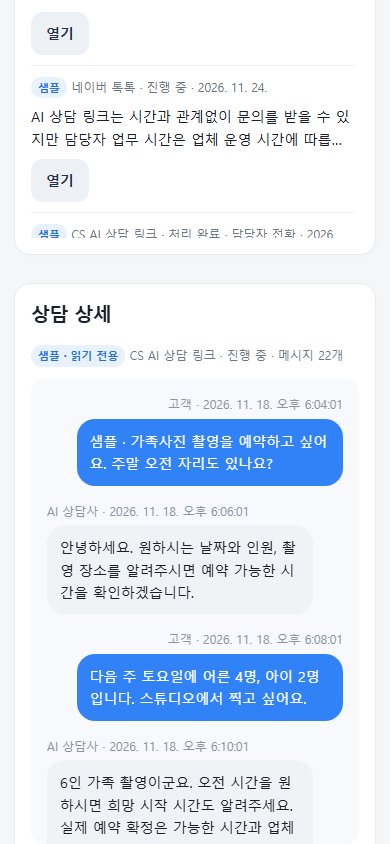
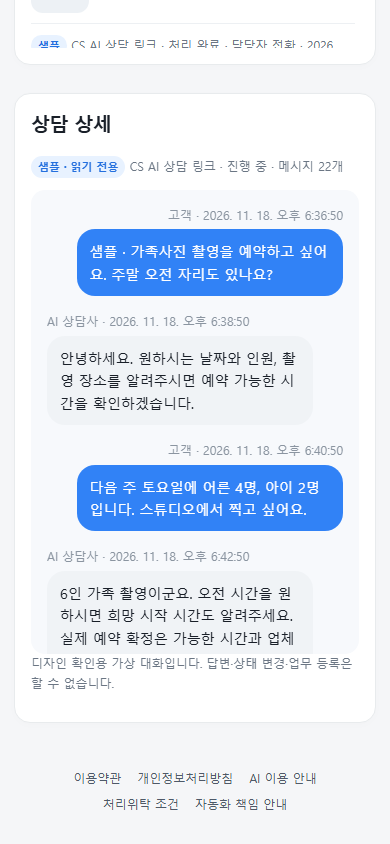
refine inbox toolbar and local chat testing

diff --git a/web/app.js b/web/app.js
@@ -1,7 +1,7 @@
 'use strict';
 const $=s=>document.querySelector(s), e=x=>String(x??'').replace(/[&<>"']/g,c=>({'&':'&amp;','<':'&lt;','>':'&gt;','"':'&quot;',"'":'&#39;'}[c])), money=x=>Number(x).toLocaleString('ko-KR')+'원', enc=encodeURIComponent;
 let cfg,me,route='education',chatSession=null,chatMessages=[],threadId=null,files=[],estimate=null,fields=null,selectedDate=null,calendarMonth=new Date(),selectedPlan='lite',selectedAdd=new Set(),pub=null,renderId=0,publicMode=location.pathname.startsWith('/c/')||location.pathname.startsWith('/widget/'),slug=location.pathname.split('/')[2];
-const btn=(text,fn,cls='')=>`<button class="${cls}" onclick="${fn}">${e(text)}</button>`, card=(title,body)=>`<section class="card"><h2>${e(title)}</h2>${body}</section>`, label=(text,body)=>`<label class="label">${e(text)}</label>${body}`, input=(id,v='',type='text',ph='')=>`<input id="${id}" type="${type}" value="${e(v)}" placeholder="${e(ph)}">`, ta=(id,v='')=>`<textarea id="${id}">${e(v)}</textarea>`, select=(id,opts,v)=>`<select id="${id}">${opts.map(([k,n])=>`<option value="${e(k)}" ${k===v?'selected':''}>${e(n)}</option>`).join('')}</select>`, pageTop=(h,s)=>`<div class="top"><div><h1>${e(h)}</h1><p class="muted">${e(s)}</p></div><span class="tag">${cfg.demo?'로컬 개발 환경':'연동 검증 환경'}</span></div>`, has=k=>me?.entitlements.includes(k), go=p=>location.hash=p, val=id=>$('#'+id).value, checked=id=>$('#'+id).checked;
+const btn=(text,fn,cls='')=>`<button class="${cls}" onclick="${fn}">${e(text)}</button>`, card=(title,body)=>`<section class="card"><h2>${e(title)}</h2>${body}</section>`, label=(text,body)=>`<label class="label">${e(text)}</label>${body}`, input=(id,v='',type='text',ph='')=>`<input id="${id}" type="${type}" value="${e(v)}" placeholder="${e(ph)}">`, ta=(id,v='')=>`<textarea id="${id}">${e(v)}</textarea>`, select=(id,opts,v)=>`<select id="${id}">${opts.map(([k,n])=>`<option value="${e(k)}" ${k===v?'selected':''}>${e(n)}</option>`).join('')}</select>`, pageTop=(h,s)=>`<div class="top"><div><h1>${e(h)}</h1><p class="muted">${e(s)}</p></div></div>`, has=k=>me?.entitlements.includes(k), go=p=>location.hash=p, val=id=>$('#'+id).value, checked=id=>$('#'+id).checked;
 const names={agents:'AI 상담원 관리',inbox:'통합 상담함',preview:'채팅창 미리보기',education:'AI 교육시키기',calendar:'일정표 보기',customers:'고객·업무 관리',channels:'외부 채널 연동',alerts:'알림',settings:'설정',pricing:'요금제 및 결제'}, states={open:'진행 중',pending:'승인 대기',pending_payment:'결제 확인 대기',confirmed:'확정',cancelled:'취소',completed:'완료',resolved:'처리 완료',draft:'작성 중'};
 async function api(path,body,method){let r=await fetch(path,{method:method||(body===undefined?'GET':'POST'),headers:body===undefined?{}:{'Content-Type':'application/json'},body:body===undefined?undefined:JSON.stringify(body)});if(r.status===204)return {};let x=await r.json().catch(()=>({detail:'서버 응답 오류'}));if(!r.ok){let err=new Error(typeof x.detail==='string'?x.detail:JSON.stringify(x.detail));err.status=r.status;throw err}return x}
 function toast(text){document.querySelector('.toast')?.remove();let d=document.createElement('div');d.className='toast';d.textContent=text;document.body.append(d);setTimeout(()=>d.remove(),3500)}
@@ -90,7 +90,8 @@ async function sendChat(){
   else toast(x.message);
  }finally{waiting?.remove();sending=false;if($('#send'))$('#send').disabled=false}
 }
-async function preview(test=false){let appearance=await api('/api/appearance');return pageTop(test?'AI 상담 테스트':'채팅창 미리보기',test?'첫 AI 답변 1회 무료 · 이후 구독 필요':'고객은 로그인 없이 상담합니다.')+`<div class="grid"><div>${phone({...me.settings,...appearance},test,!test)}</div><div>${card('전용 상담 링크',`<p>현재 ${me.enabled?'활성화':'비활성화'} 상태입니다.</p>${input('public-link',location.origin+'/c/'+me.slug)}<div class="row" style="margin:10px 0">${btn('링크 복사',"act(async()=>{await navigator.clipboard.writeText(val('public-link'));toast('복사했습니다')})")}${btn('공개 설정',"act(async()=>{await api('/api/settings',{enabled:!me.enabled},'PATCH');await refresh();render()})",'primary')}</div>${!me.public_access?'<p class="muted">유료 구독 후 공개 채팅 및 QR을 사용할 수 있습니다.</p>':`<img src="/api/qr" width="132" height="132" alt="상담 링크 QR코드"><a href="/api/qr" download="csai-qr.png">QR 저장</a>`}<div style="margin-top:12px">${btn('AI 상담 테스트',"go('test')",'primary')}</div>`)}${card('상담 사용량',`<div class="price">${me.remaining.toLocaleString()}회 남음</div><p class="muted">테스트와 실고객 상담은 동일한 사용량으로 차감됩니다.</p>`)}</div></div>`}
+async function preview(test=false){let appearance=await api('/api/appearance');let localTest=cfg.demo&&!cfg.shared_test&&me.sandbox_allowed&&me.plan==='free';return pageTop(test?'AI 상담 테스트':'채팅창 미리보기',test?'상담 답변은 사용량에서 차감됩니다.':'고객은 로그인 없이 상담합니다.')+`<div class="grid"><div>${phone({...me.settings,...appearance},test,!test)}</div><div>${card('전용 상담 링크',`<p>현재 ${me.enabled?'활성화':'비활성화'} 상태입니다.</p>${input('public-link',location.origin+'/c/'+me.slug)}<div class="row" style="margin:10px 0">${btn('링크 복사',"act(async()=>{await navigator.clipboard.writeText(val('public-link'));toast('복사했습니다')})")}${btn('공개 설정',"act(async()=>{await api('/api/settings',{enabled:!me.enabled},'PATCH');await refresh();render()})",'primary')}</div>${!me.public_access?'<p class="muted">유료 구독 후 공개 채팅 및 QR을 사용할 수 있습니다.</p>':`<img src="/api/qr" width="132" height="132" alt="상담 링크 QR코드"><a href="/api/qr" download="csai-qr.png">QR 저장</a>`}<div style="margin-top:12px">${btn('AI 상담 테스트',"go('test')",'primary')}</div>`)}${card('상담 사용량',`<div class="price">${me.remaining.toLocaleString()}회 남음</div><p class="muted">테스트와 실고객 상담은 동일한 사용량으로 차감됩니다.</p>${localTest?`<p class="muted">여러 대화를 확인하려면 로컬 테스트 구독을 적용하세요. 실제 결제는 없습니다.</p>${btn('로컬 상담 계속 테스트','enableLocalChatTesting()','primary')}`:''}`)}</div></div>`}
+async function enableLocalChatTesting(){await act(async()=>{await api('/api/demo/billing',{plan:'lite',addons:[]});await refresh();toast('로컬 테스트 구독을 적용했습니다.');render()})}
 let educationAgent='';
 async function education(){files=await api('/api/files');let jobs=await api('/api/training'),faq=await api('/api/faq'),agent=has('extra_agent')?await api('/api/agents'):null;if(!agent)educationAgent='';return pageTop('AI 교육시키기','자료와 직접 지침으로 나만의 상담원을 만드세요.')+`<div class="grid">${card('교육 현황',`<div class="price">${me.credits} 크레딧</div><p class="muted">최초 무료 20크레딧 · 모든 AI 교육은 크레딧 차감</p>${btn('교육 크레딧 보기',"go('credits')")}${btn('말투 설정',"go('style')")}`)}${card('교육 자료 등록',`<input type="file" id="upload" multiple accept=".txt,.md,.csv,.pdf,.png,.jpg,.jpeg,.webp,.docx,.xlsx,.hwpx"><p class="muted">파일당 5MB · PDF 30페이지 · HWPX 지원 · 구형 HWP는 PDF로 변환 · 사진 개인정보는 사전 제거</p>${btn('파일 업로드','uploadFiles()','primary')}${label('공개 웹페이지 URL',input('education-url','','url','https://'))}${btn('웹페이지 자료 가져오기','importEducationUrl()')}`)}</div>${card('자료 선택 및 AI 교육',`${files.map(f=>`<div class="row line"><input class="check file-check" type="checkbox" value="${e(f.id)}" checked><span>${e(f.name)} <small>${f.chars}자</small></span>${btn('삭제',`act(async()=>{await api('/api/files/${f.id}',undefined,'DELETE');render()})`)}</div>`).join('')||'<p class="muted">등록된 자료가 없습니다.</p>'}${agent?label('교육 대상',select('training-agent',[['','기본 상담원'],[agent.id,agent.settings.brand]],educationAgent)):''}${label('추가 교육 내용',ta('training-text'))}${btn('교육 비용 확인','estimateTraining()','primary')}<div id="estimate"></div>`)}${card('교육 결과 검토 및 반영',jobs.filter(j=>j.result).map(j=>`<div class="line"><strong>${e(j.agent?'추가 상담원':'기본 상담원')} · ${e(j.state==='published'?'반영 완료':'검토 필요')} · ${j.cost} C</strong><pre class="scrolltext">${e(JSON.stringify(j.result,null,2))}</pre>${j.state==='review'?btn('결과 수정',`reviewModal('${j.id}')`)+btn('승인 및 상담에 반영',`act(async()=>{await api('/api/training/${j.id}/publish',{});await refresh();render()})`,'primary'):''}</div>`).join('')||'<p class="muted">교육을 실행하면 결과가 표시됩니다. 승인 전에는 고객 상담에 반영되지 않습니다.</p>')}${card('직접 모범 답변 교육',`${label('질문',input('faq-q'))}${label('답변',ta('faq-a'))}${btn('저장',"act(async()=>{showEducationQuote(await api('/api/faq',{q:val('faq-q'),a:val('faq-a')}))})",'primary')}${faq.map(f=>`<div class="line"><b>${e(f.q)}</b><p>${e(f.a)}</p>${btn('삭제',`act(async()=>{await api('/api/faq/${f.id}',undefined,'DELETE');render()})`)}</div>`).join('')}`)}${btn('AI 상담 테스트',"go('test')",'primary')}`}
 async function uploadFiles(){await act(async()=>{let fs=[...$('#upload').files];if(!fs.length)throw Error('파일을 선택하세요.');for(let f of fs){if(f.size>5e6)throw Error('파일당 5MB 이하');let data=await new Promise((resolve,reject)=>{let r=new FileReader();r.onload=()=>resolve(r.result.split(',')[1]);r.onerror=reject;r.readAsDataURL(f)});await api('/api/files',{name:f.name,data})}toast('자료 등록 완료');render()})}
@@ -108,11 +109,12 @@ function applyInboxFilters(){inboxKind=val('inbox-kind');inboxQuery=val('inbox-q
 async function inbox(){
  let policy=await api('/api/history-policy'),ts=await api('/api/inbox?kind='+enc(inboxKind==='all'?'':inboxKind)+'&q='+enc(inboxQuery));
  let detail=threadId?await api('/api/inbox/'+threadId):null;
- let filter=`<div class="inbox-filter">${label('채널',select('inbox-kind',[['all','전체 채널'],['public','CS AI 상담 링크'],['naver','네이버 톡톡'],['kakao','카카오톡 채널'],['test','관리자 테스트']],inboxKind))}${label('상담 내용 검색',input('inbox-q',inboxQuery,'search','문의나 답변 검색'))}${btn('찾기','applyInboxFilters()','primary')}</div>`;
+ let filter=`<form class="inbox-filter" onsubmit="event.preventDefault();applyInboxFilters()"><select id="inbox-kind" aria-label="채널 선택">${[['all','전체 채널'],['public','CS AI 상담 링크'],['naver','네이버 톡톡'],['kakao','카카오톡 채널'],['test','관리자 테스트']].map(([k,n])=>`<option value="${k}" ${k===inboxKind?'selected':''}>${n}</option>`).join('')}</select><input id="inbox-q" type="search" aria-label="상담 내용 검색" value="${e(inboxQuery)}" placeholder="문의나 답변 검색"><button class="primary" type="submit">찾기</button></form>`;
  let list=ts.map(t=>`<div class="line inbox-entry ${threadId===t.id?'selected':''}"><small>${t.sample?'<span class="sample-tag">샘플</span> ':''}${e(channelNames[t.kind]||t.kind)} · ${e(states[t.status]||t.status)}${t.manual?' · 담당자 전환':''} · ${e(new Date(t.created*1000).toLocaleDateString('ko-KR'))}</small><p>${e(t.last||'새 상담')}</p>${btn('열기',`threadId='${t.id}';render()`)}</div>`).join('')||'<p class="muted">조건에 맞는 상담이 없습니다.</p>';
  let detailBody=detail?`<p class="muted">${detail.sample?'<span class="sample-tag">샘플 · 읽기 전용</span> ':''}${e(channelNames[detail.kind]||detail.kind)} · ${e(states[detail.status]||detail.status)} · 메시지 ${detail.messages.length}개</p><div class="inbox-conversation">${detail.messages.map(m=>`<div class="inbox-message ${m.role==='user'?'from-customer':''}"><small>${e(m.role==='user'?'고객':m.role==='staff'?'담당자':'AI 상담사')} · ${e(new Date(m.created*1000).toLocaleString('ko-KR'))}</small>${bubble(m.role,m.body)}</div>`).join('')}</div>${detail.sample?'<p class="muted">디자인 확인용 가상 대화입니다. 답변·상태 변경·업무 등록은 할 수 없습니다.</p>':`<div class="row" style="margin-top:15px">${btn(detail.manual?'AI 상담 재개':'담당자 전환',`updateThread({manual:${!detail.manual}})`)}${btn('완료 처리',"updateThread({status:'resolved'})")}</div>${['public','test'].includes(detail.kind)?label('직접 답변',ta('staff-reply'))+btn('답변 전송',"updateThread({reply:val('staff-reply'),manual:true})",'primary'):'<p class="muted">외부 채널의 담당자 답변 전송은 아직 검증되지 않았습니다. 고객에게 답변하려면 해당 채널 관리자 화면을 이용하세요.</p>'}${['crm','quote','tasks','leads','complaints'].some(has)?btn('업무로 등록','convertModal()'):''}`}`:'<p class="muted">왼쪽 목록에서 상담을 선택하세요.</p>';
  let sampleTools=me.sample_tools?`<div class="inbox-sample-tools"><span>화면 검토용 가상 상담 ${ts.filter(t=>t.sample).length}건 · 실제 사용량 차감 없음</span><div>${btn('샘플 상담 8건 넣기','addDemoSamples()')}${btn('샘플만 지우기','removeDemoSamples()')}</div></div>`:'';
- return pageTop('통합 상담함','CS AI 상담 링크와 연결된 채널의 상담을 한곳에서 확인합니다.')+card('상담 기록 조회',`<p>최근 ${policy.accessible_days.toLocaleString()}일 조회 가능 · 조회 범위 밖 상담 ${policy.older_threads.toLocaleString()}건</p><p class="muted">연동 이후 CS AI가 처리한 대화만 표시합니다. 외부 채널의 기존 상담 이력은 가져오지 않습니다.</p>`+(!has('retention')?locked('retention','장기 상담 기록 조회 범위를 확장합니다.'):'')+filter+sampleTools)+`<div class="grid inbox-grid">${card('상담 기록',`<div class="inbox-list">${list}</div>`)}${card('상담 상세',detailBody)}</div>`
+ let scope=`<p class="inbox-scope">최근 ${policy.accessible_days.toLocaleString()}일 상담${policy.older_threads?` · 조회 범위 밖 ${policy.older_threads.toLocaleString()}건`:''}${!has('retention')&&!cfg.demo?` <button type="button" onclick="go('pricing')">장기 보관 보기</button>`:''}</p>`;
+ return pageTop('통합 상담함','CS AI에서 처리한 상담을 채널별로 확인하세요.')+`<section class="card inbox-toolbar">${filter}${scope}${sampleTools}</section>`+`<div class="grid inbox-grid">${card('상담 기록',`<div class="inbox-list">${list}</div>`)}${card('상담 상세',detailBody)}</div>`
 }
 async function addDemoSamples(){await act(async()=>{let r=await api('/api/demo/samples',{});let ts=await api('/api/inbox');threadId=ts.find(t=>t.sample)?.id||null;inboxKind='all';inboxQuery='';toast(r.created?'샘플 상담 8건을 넣었습니다.':'샘플 상담이 이미 있습니다.');render()})}
 async function removeDemoSamples(){if(!confirm('이 데모 계정의 샘플 상담만 지울까요?'))return;await act(async()=>{let r=await api('/api/demo/samples',undefined,'DELETE');threadId=null;toast('샘플 상담 '+r.removed+'건을 지웠습니다.');render()})}
@@ -203,7 +205,7 @@ async function syncCalendar(id){await act(async()=>{let r=await api('/api/integr
 async function liveChannelModal(k){await act(async()=>{let r=await api('/api/integrations/channels/'+k);modal(k==='naver'?'네이버 톡톡 연결':'카카오 채널 연결',label(k==='naver'?'파트너 ID':'봇 ID',input('channel-partner',r.partner))+ (k==='naver'?label('보내기 API Authorization',input('channel-secret','','password')):'')+`<p class="muted">${r.configured?'HTTPS 연동 허용 환경':'실제 웹훅 비활성화 · 키 설정 및 HTTPS 필요'}</p><label><input type="checkbox" class="check" id="channel-active" ${r.active?'checked':''}> 실제 수신 활성화</label>`+btn('설정 저장',`saveLiveChannel('${k}')`,'primary')+(r.saved?label('Webhook / 스킬 URL (비공개)',input('channel-webhook',r.webhook))+btn('연결 해제',`act(async()=>{await api('/api/integrations/channels/${k}/disconnect',{});$('.modal').remove();render()})`):'')+`<p class="muted">실제 공급자 인증과 권한 검증 전 운영에 사용하지 마세요. 카카오는 승인된 콜백 설정이 필요합니다.</p>`+r.jobs.map(j=>`<div class="line">${e(j.status)} ${e(j.error)}</div>`).join(''))})}
 async function saveLiveChannel(k){await act(async()=>{await api('/api/integrations/channels/'+k,{partner:val('channel-partner'),credential:$('#channel-secret')?.value||'',active:checked('channel-active')});await liveChannelModal(k)})}
 
-const oldSettings=settings;settings=async function(){let html=oldSettings(),r=await api('/api/appearance');return html+card('채팅창 외형 및 링크',`${me.public_access?label('업체 로고',`<input type="file" id="logo-file" accept="image/png,image/jpeg,image/webp">`)+btn('로고 저장','saveLogo()')+btn('로고 제거',"act(async()=>{await api('/api/appearance',{logo:''});render()})"):'<p class="muted">유료 상담 구독 후 로고 설정 가능</p>'}${has('design')?label('채팅 테마',select('chat-theme',[['dark','기존 다크'],['toss','토스형'],['messenger','메신저형'],['premium','프리미엄형']],r.theme))+label('상담창 테마 색상',input('chat-color',r.color,'color'))+label('메시지 간격',select('chat-density',[['normal','기본'],['compact','촘촘하게'],['roomy','여유롭게']],r.density))+label('말풍선 모서리',select('chat-radius',[['rounded','둥글게'],['square','각지게']],r.bubble_radius))+btn('디자인 저장',"act(async()=>{await api('/api/appearance',{color:val('chat-color'),theme:val('chat-theme'),density:val('chat-density'),bubble_radius:val('chat-radius')});await refresh();render()})"):locked('design','상담창 테마 색상 설정')}${has('unbrand')?`<label><input type="checkbox" class="check" id="unbrand" ${r.unbrand?'checked':''}> CS AI 브랜드 간소화 (AI 안내는 유지)</label>`+btn('저장',"act(async()=>{await api('/api/appearance',{unbrand:checked('unbrand')});render()})"):locked('unbrand','브랜드 표시 간소화')}${has('custom_url')?label('지정 상담 주소 (영문 소문자/숫자)',input('alias',r.alias))+btn('주소 저장',"act(async()=>{await api('/api/appearance',{alias:val('alias')});render()})")+(r.alias?`<p><a href="/c/${e(r.alias)}" target="_blank" rel="noopener noreferrer">/c/${e(r.alias)}</a></p>`:''):locked('custom_url','원하는 상담 주소 설정')}`)};
+const oldSettings=settings;settings=async function(){let html=oldSettings(),r=await api('/api/appearance');return html+card('채팅창 외형 및 링크',`${me.public_access?`<div class="logo-preview">${r.logo?`<img src="${e(r.logo)}" alt="현재 업체 로고">`:'<p class="muted">현재 기본 CS 원형 표시를 사용합니다.</p>'}</div>`+label('업체 로고',`<input type="file" id="logo-file" accept="image/png,image/jpeg,image/webp"><small>정사각형 이미지 권장 · 400KB 이하 · 저장 시 128×128px 이내 PNG로 변환 · 채팅 상단 원형에 표시</small>`)+btn('로고 저장','saveLogo()')+(r.logo?btn('로고 제거',"act(async()=>{await api('/api/appearance',{logo:''});render()})"):''):'<p class="muted">유료 상담 구독 후 로고 설정 가능</p>'}${has('design')?label('채팅 테마',select('chat-theme',[['dark','기존 다크'],['toss','토스형'],['messenger','메신저형'],['premium','프리미엄형']],r.theme))+label('상담창 테마 색상',input('chat-color',r.color,'color'))+label('메시지 간격',select('chat-density',[['normal','기본'],['compact','촘촘하게'],['roomy','여유롭게']],r.density))+label('말풍선 모서리',select('chat-radius',[['rounded','둥글게'],['square','각지게']],r.bubble_radius))+btn('디자인 저장',"act(async()=>{await api('/api/appearance',{color:val('chat-color'),theme:val('chat-theme'),density:val('chat-density'),bubble_radius:val('chat-radius')});await refresh();render()})"):locked('design','상담창 테마 색상 설정')}${has('unbrand')?`<label><input type="checkbox" class="check" id="unbrand" ${r.unbrand?'checked':''}> CS AI 브랜드 간소화 (AI 안내는 유지)</label>`+btn('저장',"act(async()=>{await api('/api/appearance',{unbrand:checked('unbrand')});render()})"):locked('unbrand','브랜드 표시 간소화')}${has('custom_url')?label('지정 상담 주소 (영문 소문자/숫자)',input('alias',r.alias))+btn('주소 저장',"act(async()=>{await api('/api/appearance',{alias:val('alias')});render()})")+(r.alias?`<p><a href="/c/${e(r.alias)}" target="_blank" rel="noopener noreferrer">/c/${e(r.alias)}</a></p>`:''):locked('custom_url','원하는 상담 주소 설정')}`)};
 async function saveLogo(){await act(async()=>{let f=$('#logo-file').files[0];if(!f||f.size>400000)throw Error('400KB 이하 이미지 파일을 선택하세요.');let data=await new Promise((resolve,reject)=>{let r=new FileReader();r.onload=()=>resolve(r.result.split(',')[1]);r.onerror=reject;r.readAsDataURL(f)});await api('/api/appearance',{logo:data});render()})}
 async function agents(){if(!has('extra_agent'))return pageTop('AI 상담원 관리','추가 AI 상담원을 운영할 수 있습니다.')+locked('extra_agent','별도 상담 링크, 상담 스타일, 개별 FAQ를 설정합니다.');let a=await api('/api/agents'),s=a?.settings||{brand:'추가 상담원',tone:'자연스럽고 정중하게',prompt:'등록된 정책으로만 상담하세요.',welcome:'안녕하세요. 무엇을 도와드릴까요?',fallback:'담당자 확인이 필요합니다.',emoji:false};return pageTop('AI 상담원 관리','기본 상담원 외 추가 1명 · 업체 공통 사용량과 예약 일정 공유')+card('추가 상담원 설정',label('상담원 이름',input('agent-brand',s.brand))+label('말투',input('agent-tone',s.tone))+label('첫 인사',input('agent-welcome',s.welcome))+label('모르는 질문 안내',ta('agent-fallback',s.fallback))+`<label><input class="check" id="agent-emoji" type="checkbox" ${s.emoji?'checked':''}> 이모지 사용</label>`+`<label><input type="checkbox" class="check" id="agent-enabled" ${a?.enabled?'checked':''}> 추가 상담원 공개</label>`+btn('저장','saveAgent()','primary')+(a?`<p>별도 상담 주소: <a href="/c/${e(a.slug)}" target="_blank" rel="noopener noreferrer">/c/${e(a.slug)}</a></p>`:'')+'<p class="muted">교육 지식은 상담원별로 분리되며, 예약 일정과 사용량은 업체 공통입니다.</p>')+(a?card('추가 상담원 교육',btn('교육 시작',`educationAgent='${a.id}';go('education')`,'primary')+`<pre class="scrolltext">${e(JSON.stringify(a.published,null,2))}</pre>`+(await api('/api/agents/versions')).map(v=>btn(new Date(v.created*1000).toLocaleString()+' 복원',`act(async()=>{await api('/api/agents/versions/${v.id}/restore',{});render()})`)).join('')):'')}
 async function saveAgent(){await act(async()=>{await api('/api/agents',{brand:val('agent-brand'),tone:val('agent-tone'),welcome:val('agent-welcome'),fallback:val('agent-fallback'),emoji:checked('agent-emoji'),enabled:checked('agent-enabled')});render()})}

diff --git a/web/ui-refinement.css b/web/ui-refinement.css
@@ -133,7 +133,9 @@
  .channel-icon{width:36px;height:36px}
 }
 @media(prefers-reduced-motion:reduce){.phone .notice summary .ui-icon{transition:none}}
-.inbox-filter{display:grid;grid-template-columns:minmax(150px,190px) minmax(180px,1fr) auto;gap:10px;align-items:end;margin-top:18px}
-.inbox-filter .label{margin-bottom:6px}
-.inbox-filter button{min-height:42px}
-@media(max-width:640px){.inbox-filter{grid-template-columns:1fr}.inbox-filter button{width:100%}}
+.inbox-toolbar{padding:16px 20px}
+.inbox-filter{display:grid;grid-template-columns:minmax(150px,190px) minmax(0,1fr) 86px;gap:10px;align-items:center;margin:0}
+.inbox-filter input,.inbox-filter select,.inbox-filter button{height:44px;min-height:44px;margin:0}
+.inbox-scope{margin:10px 0 0!important;color:#6b7684;font-size:12px}
+.inbox-scope button{min-height:0;padding:0;margin-left:8px;background:none;color:#3182f6;font-size:12px}
+@media(max-width:640px){.inbox-filter{grid-template-columns:1fr 80px}.inbox-filter select{grid-column:1/-1}.inbox-filter button{width:100%}}

diff --git a/tests/live_ui_smoke.py b/tests/live_ui_smoke.py
@@ -40,6 +40,8 @@ with sync_playwright() as pw:
     desktop.locator(".inbox-entry").first.wait_for()
     assert desktop.locator(".inbox-entry").count() >= 8
     assert desktop.locator(".sample-tag").count() >= 8
+    desktop.wait_for_timeout(500)
+    desktop.screenshot(path=str(OUT / "live_inbox_toolbar_desktop.png"))
     desktop.locator(".inbox-entry").last.get_by_role("button", name="열기").click()
     desktop.get_by_text("메시지 22개").wait_for()
     assert desktop.locator(".inbox-conversation").evaluate("el => el.scrollHeight > el.clientHeight")
@@ -57,6 +59,12 @@ with sync_playwright() as pw:
     desktop.wait_for_function("document.querySelectorAll('#messages .bubble').length >= 3")
     desktop.wait_for_function("!document.querySelector('#messages .streaming-reply')")
     assert desktop.locator("#messages .bubble").count() >= 3
+    desktop.get_by_role("button", name="로컬 상담 계속 테스트").click()
+    desktop.get_by_text("로컬 테스트 구독을 적용했습니다.").wait_for()
+    desktop.locator("#msg").fill("예약 문의")
+    desktop.get_by_role("button", name="전송").click()
+    desktop.locator("#messages .bubble.user").get_by_text("예약 문의").wait_for()
+    desktop.wait_for_function("document.querySelectorAll('#messages .bubble').length >= 5")
     assert desktop.get_by_role("heading", name="채팅창 미리보기").is_visible()
     desktop.locator(".phone").evaluate(
         "(el) => { el.style.width='500px'; el.style.height='700px' }"

diff --git a/FEATURE_CHECKLIST.md b/FEATURE_CHECKLIST.md
@@ -83,4 +83,6 @@
 
 2026-11-26 통합 상담함 샘플: 로컬 데모 계정에서만 가상 대화 8건(상담 링크·네이버·카카오·관리자 테스트)을 생성·삭제할 수 있습니다. 최장 대화 22개 메시지, 예약·교환·환불·견적·불만 사례를 포함하며 샘플은 읽기 전용입니다. 목록·상세 각각 스크롤, PC·모바일 화면을 검수했습니다. 샘플은 사용량·교육 크레딧을 차감하지 않으며 공유/운영 환경에 생성되지 않습니다. `SEED_UI_SAMPLES=1`을 켠 로컬 서버는 새 로컬 테스트 로그인 시 자동 생성합니다.
 
+2026-11-26 상담함·로컬 테스트 UI: 채널 선택·검색·찾기를 한 줄로 정리하고 중복 안내와 큰 장기 보관 결제 카드를 제거했습니다. 장기 보관 안내는 권한 없는 비로컬 계정에만 간단히 표시되며 권한 획득 후 숨습니다. 로컬 데모 무료 계정은 채팅 미리보기에서 기존 샌드박스 구독 API로 반복 상담을 활성화할 수 있습니다. 업체 로고 업로드의 400KB·128×128px 안내와 현재 로고 미리보기를 추가했습니다. 전체 82개 Python 테스트와 로컬 PC·모바일 브라우저 검수 통과. 실제 OpenAI 및 Google OAuth는 환경변수가 없어 검증 전입니다.
+
 추가 안정화: 예약 관리자 등록·변경·취소·완료 알림 및 수동 상담 첫 문의 알림 추가. 실제 이메일은 확인된 Google 계정 주소만 허용하며 개발 모드에서는 모의 발송. 워커 서비스별 오류를 분리해 다른 자동 작업이 계속 실행되도록 변경. 회귀 테스트를 추가했으나 전체 실행 결과는 아직 검증하지 못했습니다.

diff --git a/README.md b/README.md
@@ -10,7 +10,7 @@
 
 - 랜딩은 CS AI와 기존 문구를 유지하면서 **나의 클론 상담사**를 표시합니다.
 - 직접 지침, 모범 답변, 미학습 답변 교정, 업로드 자료는 모두 교육 견적 → 크레딧 예약 → 교육 실행 → 검토 → 승인 흐름을 사용합니다. 단순 업체 정보와 표현 옵션만 무료 설정입니다.
-- 운영자 권한은 `OPERATOR_OWNERS=google:<검증된 Google sub>`처럼 서버 환경변수로만 부여합니다. 이메일, URL 파라미터, 클라이언트 값으로 권한을 주지 않습니다. 로컬에서만 `local:operator`과 24자 이상 `LOCAL_OPERATOR_TOKEN`을 사용할 수 있습니다.
+- 운영자 권한은 서버의 `OPERATOR_OWNERS=google:<검증된 Google sub>` 또는 `OPERATOR_EMAILS=<Google에서 검증된 이메일>`로만 부여합니다. URL 파라미터나 클라이언트 값으로 권한을 주지 않습니다. 로컬에서만 `local:operator`과 24자 이상 `LOCAL_OPERATOR_TOKEN`을 사용할 수 있습니다.
 - 초청 체험은 운영자가 1회용 링크로 발급하며 기본 50회 상담/100C/14일(상담 100·300회, 교육 20~300C, 기간 1~30일 조절 가능), 예약 체험 10건을 제공합니다. 체험과 운영자 사용량은 일반 구독 지갑과 분리됩니다.
 - 교육은 `gpt-6.2-sol`, 상담은 `gpt-6-luna`를 기본 환경변수 값으로 두고, 모델 사용량·예상 원가를 운영자 전용으로 기록합니다. 실제 키·계정 가용성 및 청구 단가는 배포 전 별도 확인해야 합니다.
 
